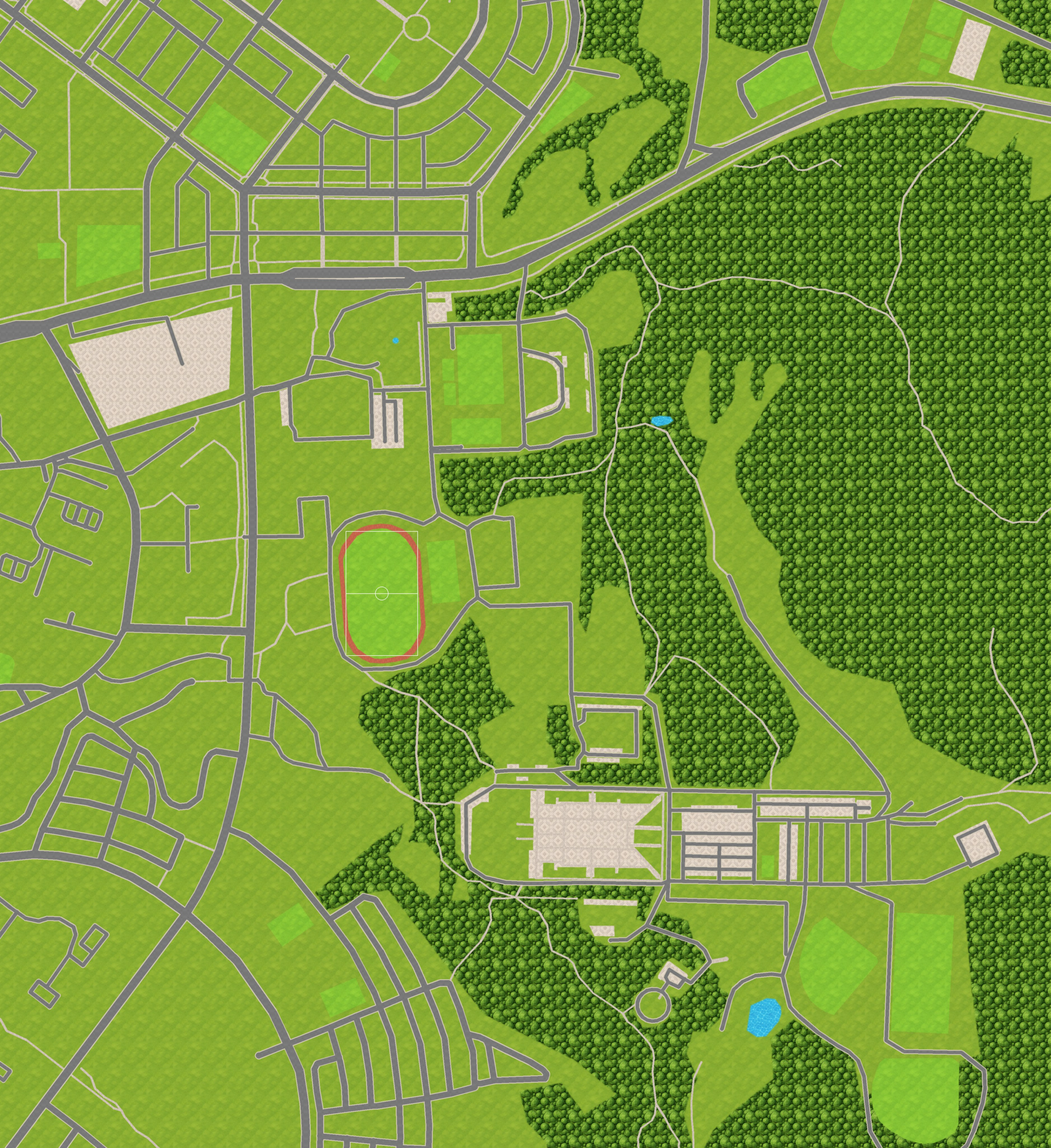
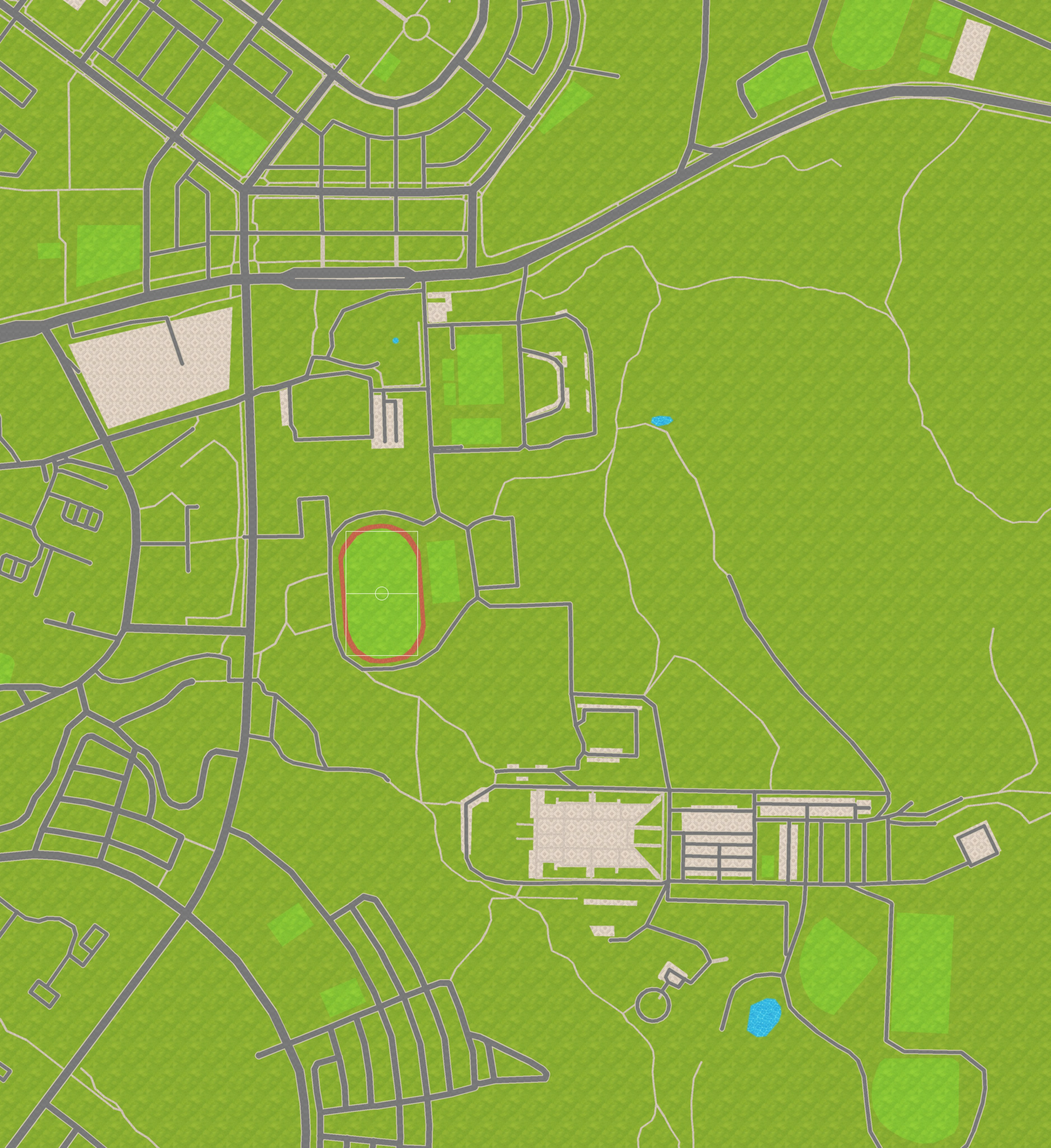
Use plain grass under forests and keep only the 3D trees
Claude-Session: https://claude.ai/code/session_01E139B43Js9TpLNZTD9ZiNd

diff --git a/tools/keyart/render_ground.py b/tools/keyart/render_ground.py
@@ -48,7 +48,6 @@ def load_tile(name, meters, crop=None, blur=0):
 
 print('tiles…', W, H)
 grass = load_tile('grass', 36, blur=2.2)
-forest = load_tile('forest', 34)
 paving = load_tile('paving', 14)
 plaza = load_tile('plaza', 18)
 water = load_tile('water', 24)
@@ -98,7 +97,7 @@ paved_m = area_mask(lambda t: t.get('amenity') == 'parking' or t.get('area:highw
 water_m = area_mask(lambda t: t.get('natural') == 'water' or t.get('landuse') in ('reservoir', 'basin'))
 
 print('areas…')
-blend(forest_m, forest, 2.0)
+# 숲 영역은 바닥에 숲 그림을 깔지 않고 잔디 그대로 둔다 (3D 나무만 보이게)
 pitch_tex = np.clip(grass * np.array([0.92, 1.08, 0.9], np.float32) + 8, 0, 255)
 # 육상 트랙(붉은색)과 그 안의 축구장(초록 + 흰 선)
 track_tex = np.clip(paving * np.array([0.95, 0.52, 0.42], np.float32), 0, 255)
